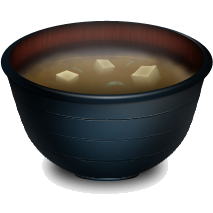
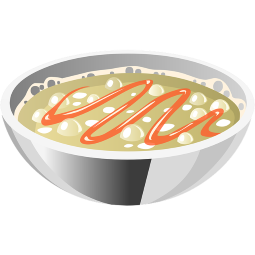
Enabled soup as an order, fixed some bugs.

diff --git a/README.md b/README.md
@@ -11,8 +11,8 @@ Use the fridge to collect ingredients, chop them up, fry them or soup them and s
 When you want to try something different, vote to end the game via the F1 menu.
 
 ## Notes:
-- Order system does not handle soup yet, but feel free to make one in freestyle mode to see how it works.
 - Loot Box (opened with order points) does nothing yet, just looks pretty.
+- The judge does not score on dirty plates, undercooked food or burnt food yet. The functionality is there but not entirely coded yet.
 
 ## Thanks to:
 - [GamingMad101](http://steamcommunity.com/id/GamingMad101/) for an excellent [map](https://github.com/mattkrins/gfodder/blob/master/content/maps/).
